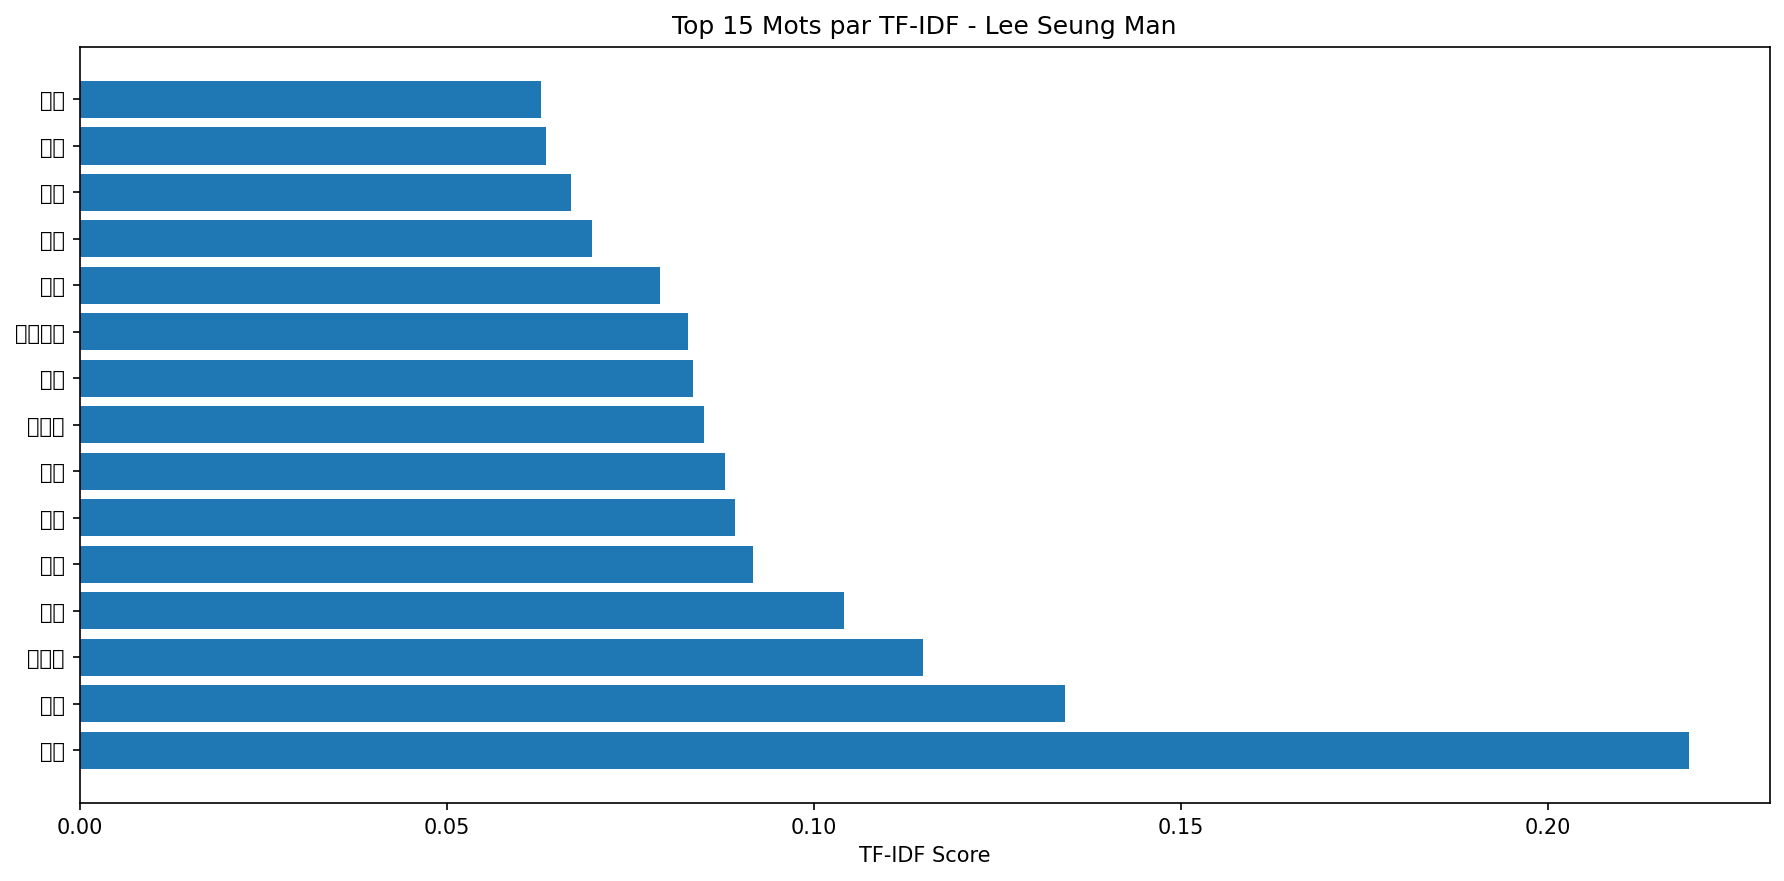
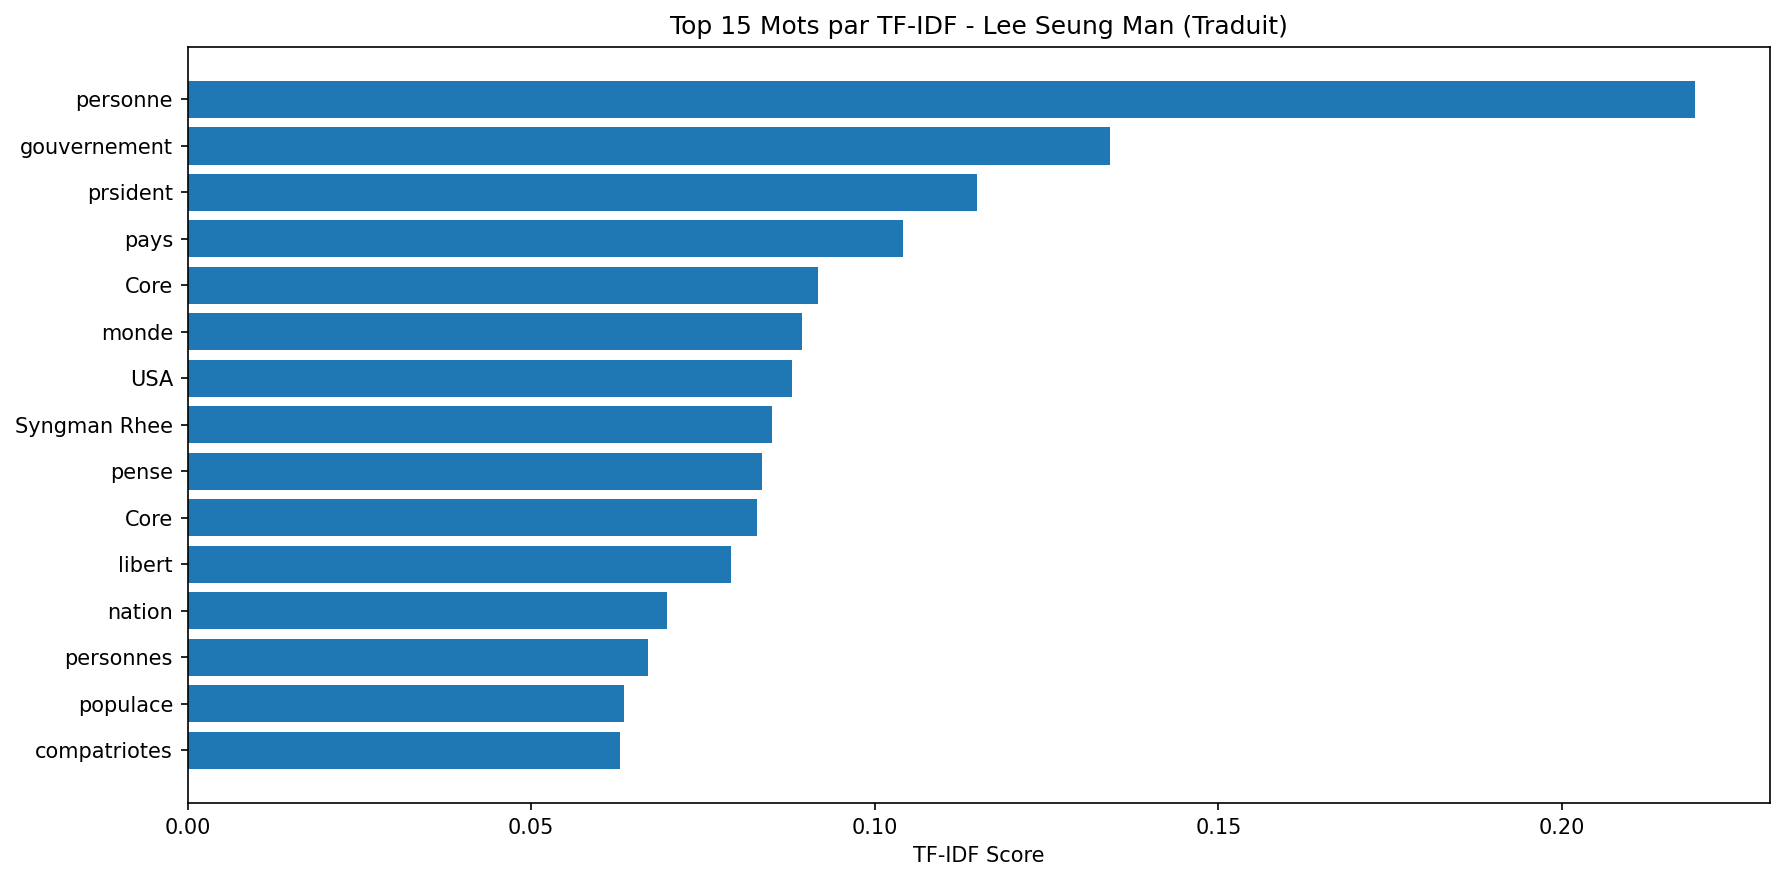
Fix visualization labels: translated LDA, LSA, and TF-IDF into French for Overleaf legibility. Updated Overleaf ZIP.

diff --git a/analyse_lsa_gpu.py b/analyse_lsa_gpu.py
@@ -205,6 +205,52 @@ tsv_translated = "lsa_gpu_15topics_results_translated.tsv"
 with open(tsv_translated, 'w', encoding='utf-8') as f:
     f.writelines(output_lines)
 
-print(f"✓ Traductions sauvegardées dans {tsv_translated}")
+# Plotting results with French translations
+print("\nGénération du graphique lsa_components.png avec labels en français...")
+import matplotlib.pyplot as plt
+
+# Configuration matplotlib
+plt.rcParams['font.family'] = 'DejaVu Sans'
+plt.rcParams['axes.unicode_minus'] = False
+
+n_topics = 15
+fig, axes = plt.subplots(3, 5, figsize=(20, 15))
+axes = axes.flatten()
+
+for topic_idx in range(n_topics):
+    cluster_docs = [i for i, c in enumerate(clusters) if c == topic_idx]
+    if len(cluster_docs) == 0:
+        fig.delaxes(axes[topic_idx])
+        continue
+        
+    cluster_tfidf = tfidf_matrix[cluster_docs].mean(axis=0).A1
+    top_indices = cluster_tfidf.argsort()[-10:][::-1]
+    top_words_ko = [vocab[i] for i in top_indices]
+    top_scores = [cluster_tfidf[i] for i in top_indices]
+    
+    # Translate labels to French
+    translated_labels = []
+    for word in top_words_ko:
+        try:
+            # We already have a translator object 'translator'
+            trans = translator.translate(word, src='ko', dest='fr').text
+            clean_trans = trans.encode('ascii', 'ignore').decode('ascii').strip()
+            if not clean_trans: clean_trans = "Terme"
+            translated_labels.append(clean_trans)
+        except:
+            translated_labels.append("???")
+            
+    axes[topic_idx].barh(range(len(translated_labels)), top_scores)
+    axes[topic_idx].set_yticks(range(len(translated_labels)))
+    axes[topic_idx].set_yticklabels(translated_labels)
+    axes[topic_idx].set_xlabel('Poids')
+    axes[topic_idx].set_title(f'Composante LSA {topic_idx + 1}')
+    axes[topic_idx].invert_yaxis()
+
+plt.tight_layout()
+plt.savefig('lsa_components.png', dpi=150, bbox_inches='tight')
+print("✓ Graphique sauvegardé: lsa_components.png")
+
+print(f"✓ Traductions sauvées dans {tsv_translated}")
 print(f"✓ Temps d'exécution : {execution_time:.2f}s")
 print(f"✓ CPU : {cpu_percent:.1f}% | GPU : {gpu_usage:.1f}% | GPU Power : {gpu_power:.1f}W")

diff --git a/analyse_lda_15topics.py b/analyse_lda_15topics.py
@@ -150,6 +150,48 @@ tsv_translated = "lda_15topics_results_translated.tsv"
 with open(tsv_translated, 'w', encoding='utf-8') as f:
     f.writelines(output_lines)
 
-print(f"✓ Traductions sauvegardées dans {tsv_translated}")
+# Plotting results with French translations
+print("\nGénération du graphique lda_topics.png avec labels en français...")
+import matplotlib.pyplot as plt
+
+# Configuration matplotlib
+plt.rcParams['font.family'] = 'DejaVu Sans'
+plt.rcParams['axes.unicode_minus'] = False
+
+n_topics = 15
+fig, axes = plt.subplots(3, 5, figsize=(20, 15))
+axes = axes.flatten()
+
+for topic_idx in range(n_topics):
+    topic = lda.components_[topic_idx]
+    top_indices = topic.argsort()[-10:][::-1]
+    top_words_ko = [vocab[i] for i in top_indices]
+    top_scores = [topic[i] for i in top_indices]
+    
+    # Translate labels to French for the plot
+    translated_labels = []
+    for word in top_words_ko:
+        try:
+            # We already have a translator object 'translator'
+            trans = translator.translate(word, src='ko', dest='fr').text
+            # Remove any non-ASCII characters to be safe with fonts
+            clean_trans = trans.encode('ascii', 'ignore').decode('ascii').strip()
+            if not clean_trans: clean_trans = "Terme"
+            translated_labels.append(clean_trans)
+        except:
+            translated_labels.append("???")
+            
+    axes[topic_idx].barh(range(len(translated_labels)), top_scores)
+    axes[topic_idx].set_yticks(range(len(translated_labels)))
+    axes[topic_idx].set_yticklabels(translated_labels)
+    axes[topic_idx].set_xlabel('Importance')
+    axes[topic_idx].set_title(f'Thème {topic_idx + 1}')
+    axes[topic_idx].invert_yaxis()
+
+plt.tight_layout()
+plt.savefig('lda_topics.png', dpi=150, bbox_inches='tight')
+print("✓ Graphique sauvegardé: lda_topics.png")
+
+print(f"✓ Traductions sauvées dans {tsv_translated}")
 print(f"✓ Temps d'exécution : {execution_time:.2f}s")
 print(f"✓ CPU : {cpu_percent:.1f}% | GPU : {gpu_usage:.1f}% | GPU Power : {gpu_power:.1f}W")

diff --git a/textometry_analysis.py b/textometry_analysis.py
@@ -87,17 +87,33 @@ for idx in top_indices:
     print(f"  {word:15s} : {score:.4f}")
     tfidf_results.append({'word': word, 'tfidf_score': score})
 
-# Visualisation TF-IDF
-plt.figure(figsize=(12, 6))
-words = [feature_names[i] for i in top_indices[:15]]
+# Visualisation TF-IDF avec traductions
+print("\nGénération du graphique tfidf_analysis.png avec labels en français...")
+from googletrans import Translator
+translator = Translator()
+
+words_ko = [feature_names[i] for i in top_indices[:15]]
 scores = [tfidf_scores[i] for i in top_indices[:15]]
-plt.barh(range(len(words)), scores)
-plt.yticks(range(len(words)), words)
+
+translated_labels = []
+for word in words_ko:
+    try:
+        trans = translator.translate(word, src='ko', dest='fr').text
+        clean_trans = trans.encode('ascii', 'ignore').decode('ascii').strip()
+        if not clean_trans: clean_trans = "Terme"
+        translated_labels.append(clean_trans)
+    except:
+        translated_labels.append("???")
+
+plt.figure(figsize=(12, 6))
+plt.barh(range(len(translated_labels)), scores)
+plt.yticks(range(len(translated_labels)), translated_labels)
 plt.xlabel('TF-IDF Score')
-plt.title('Top 15 Mots par TF-IDF - Lee Seung Man')
+plt.title('Top 15 Mots par TF-IDF - Lee Seung Man (Traduit)')
+plt.gca().invert_yaxis()
 plt.tight_layout()
 plt.savefig('tfidf_analysis.png', dpi=150, bbox_inches='tight')
-print("\n💾 Graphique sauvegardé: tfidf_analysis.png")
+print("💾 Graphique sauvegardé: tfidf_analysis.png")
 
 # ========== 2. LDA TOPIC MODELING ==========
 print("\n" + "="*80)
